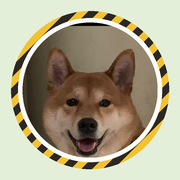
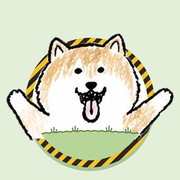
Add files via upload

diff --git a/index.html b/index.html
@@ -11,7 +11,16 @@
 <meta name="apple-mobile-web-app-title" content="阿布之家">
 <meta name="apple-mobile-web-app-status-bar-style" content="default">
 <link rel="manifest" href="manifest.webmanifest">
-<link rel="icon" href="img/icon-192.png">
+<link rel="icon" type="image/png" href="img/favicon.png">
+<meta property="og:type" content="website">
+<meta property="og:site_name" content="阿布之家">
+<meta property="og:title" content="阿布之家">
+<meta property="og:description" content="摸摸阿布、玩小遊戲、一起看阿布的回憶照片">
+<meta property="og:url" content="https://leisure7619-afk.github.io/abu-home/">
+<meta property="og:image" content="https://leisure7619-afk.github.io/abu-home/img/og.jpg?v=2">
+<meta property="og:image:width" content="1200">
+<meta property="og:image:height" content="630">
+<meta name="twitter:card" content="summary_large_image">
 <link rel="apple-touch-icon" href="img/apple-touch-icon.png">
 <link rel="preconnect" href="https://fonts.googleapis.com">
 <link rel="preconnect" href="https://fonts.gstatic.com" crossorigin>
@@ -454,6 +463,12 @@
   .confirm p{margin:0;font-size:14px;color:#8E2E1E}
   .del-thumb{width:120px;height:120px;border-radius:14px;object-fit:cover}
   .dthumb img,.photo img{-webkit-touch-callout:none}
+  /* ---------- 日常頁的全家福相框 ---------- */
+  .famframe{align-self:center;width:min(86%,360px);background:#fff;padding:10px 10px 30px;border-radius:4px;box-shadow:0 8px 18px rgba(43,39,35,.16);transform:rotate(-2deg);position:relative;margin:14px 0 6px}
+  .famframe img{width:100%;display:block}
+  .famframe figcaption{position:absolute;left:0;right:0;bottom:6px;text-align:center;font-family:var(--font-display);font-size:15px}
+  .famframe::before{content:"";position:absolute;top:-9px;left:50%;width:78px;height:22px;margin-left:-39px;background:rgba(242,194,48,.78);transform:rotate(3deg)}
+
   @media (prefers-reduced-motion: reduce){
     *,*::before,*::after{animation-duration:.01ms!important;transition-duration:.01ms!important}
   }

diff --git a/app.js b/app.js
@@ -751,7 +751,7 @@ const DIARY_CATS=[
   {cat:'上廁所', icon:'i-potty', cls:'d-potty'},
 ];
 function Food(){
-  const s=h(`<section class="screen"><h2>日常</h2></section>`);
+  const s=h(`<section class="screen"><h2>日常</h2><figure class="famframe"><img src="img/family.jpg" alt="阿布和家人的手繪全家福"><figcaption>阿布之家</figcaption></figure></section>`);
   DIARY_CATS.forEach(c=>{
     const photos=pool().filter(p=>p.cat===c.cat).sort((a,b)=>ptime(b)-ptime(a));
     s.appendChild(h(`<section class="dsec ${c.cls}"><h3><svg><use href="#${c.icon}"/></svg>${c.cat}</h3>
